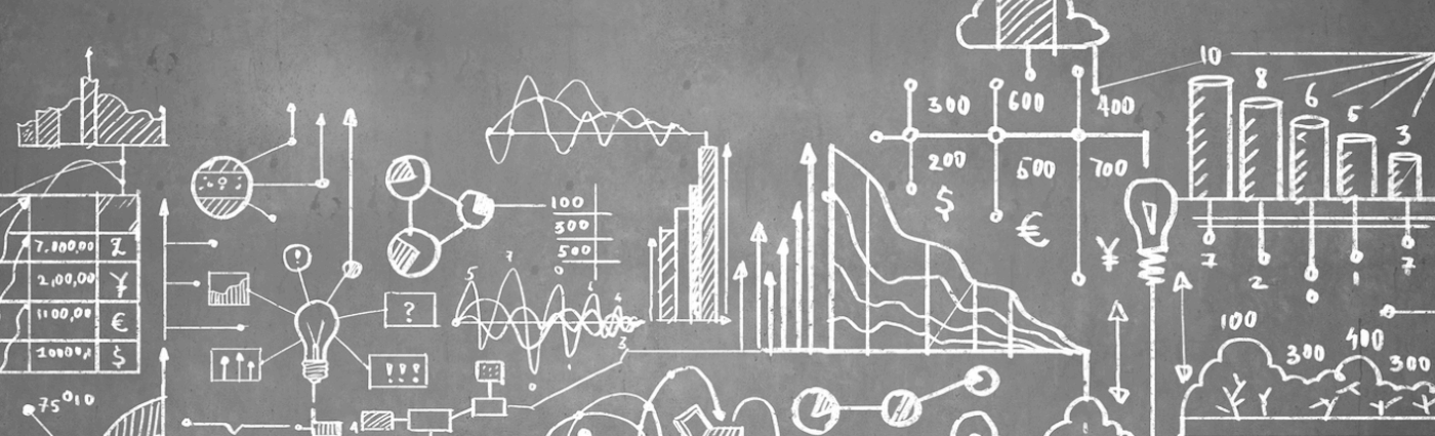
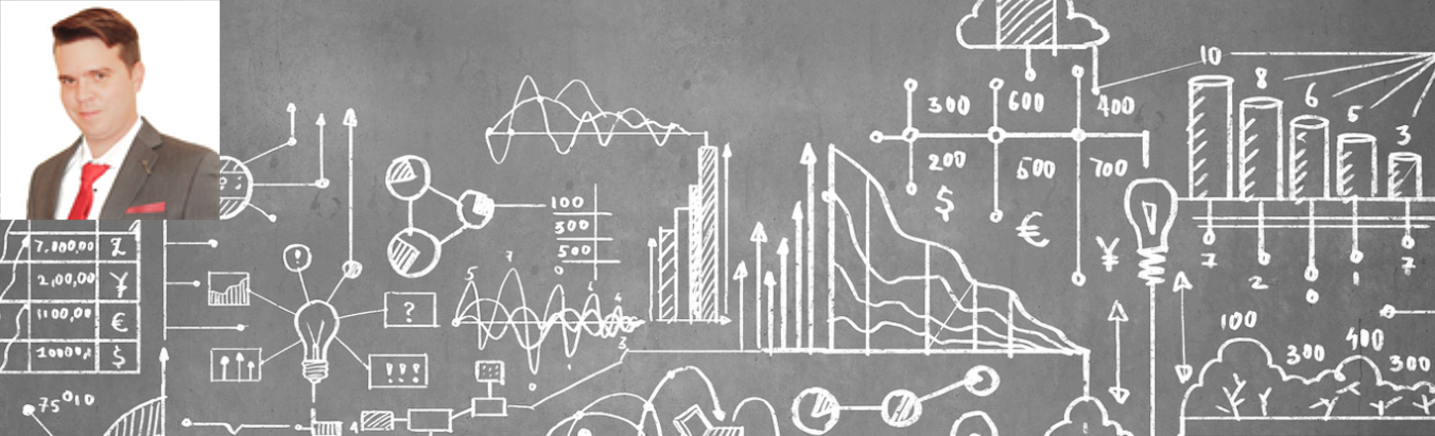
Configuration

Changed region(s): [[0.0, 0.0, 0.1533, 0.5069]]

diff --git a/about.md b/about.md
@@ -2,7 +2,7 @@
 title: About
 layout: page
 ---
-![](image/Yasel_Image.jpg)
+![](image/About.jpeg)
 
 <p> I am a data scientist with +8 years of work experience in Machine Learning, Statistics, and Data Analysis. I have a critical thinking, and I am always compromised to bring fast, smart and innovative solutions to complex problems. I have a Ph.D. Degree in Computer Science and Mathematics, with an advanced formation in statistics learning and programming. Linguistic knowledge to write and speak fluent English and Spanish. Good Team Member/Leader. </p>
 
